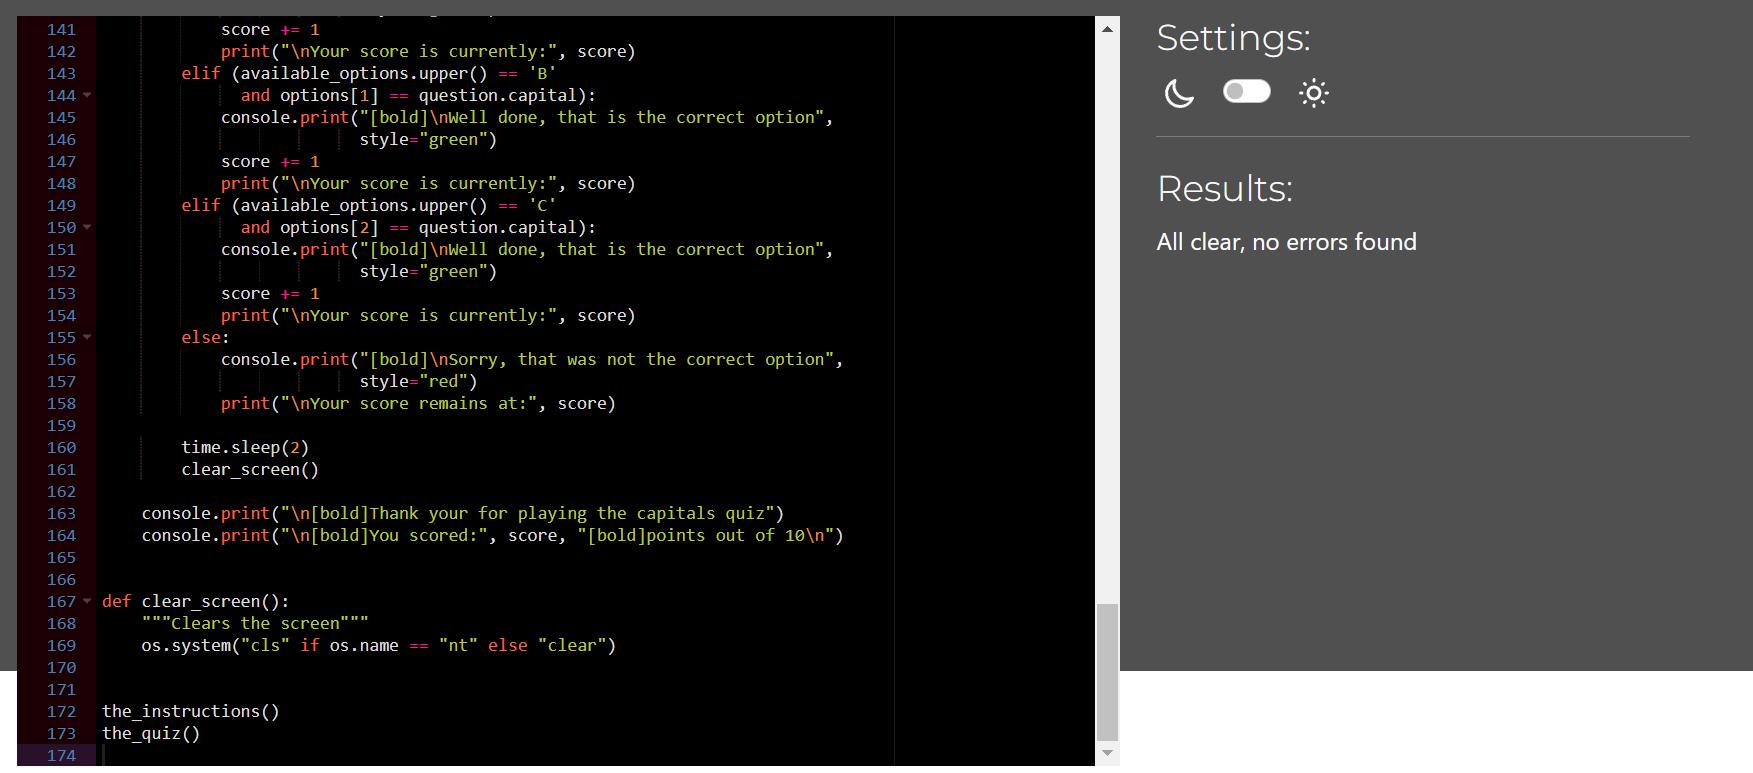
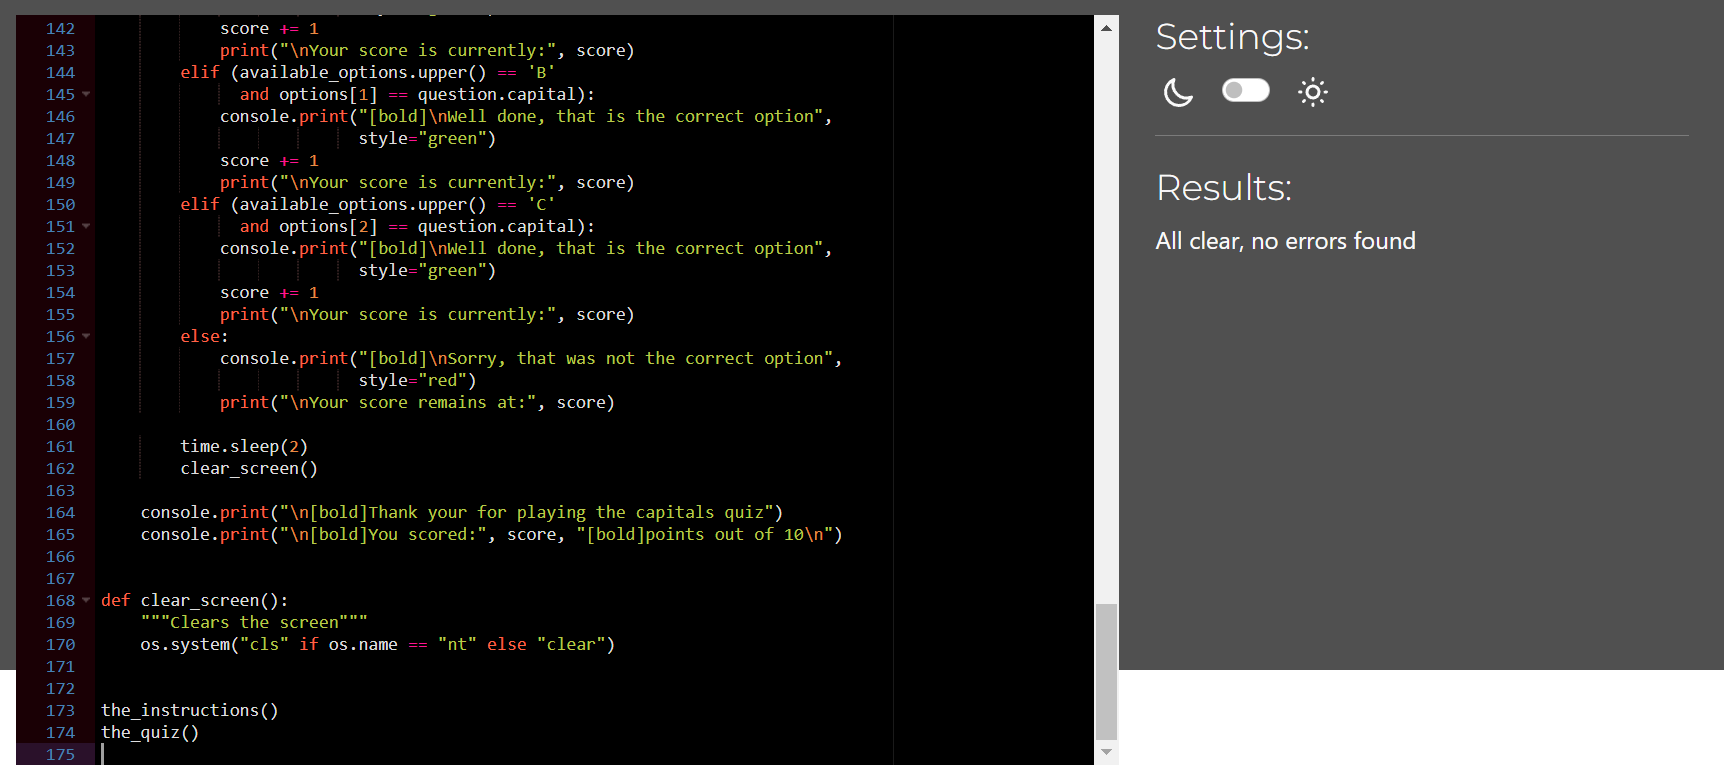
Add extra line of instruction

Changed region(s): [[0.0, 0.0, 1.0, 0.9935], [0.0922, 0.031, 0.4919, 0.5278], [0.0922, 0.5589, 0.1845, 0.621]]

diff --git a/run.py b/run.py
@@ -42,6 +42,7 @@ def the_instructions():
     print("listed as A, B and C\n")
     print("Please select either A, B or C\n")
     print("You shall be advised if that is the correct answer or not\n")
+    print("You shall be awarded 1 point for each correct answer\n")
     print("If you select anything other than A, B or C, you shall", end=" ")
     print("be asked to make a choice again until you select A, B or C\n")
     input("Press Enter to continue\n")
@@ -50,7 +51,8 @@ def the_instructions():
 
 def the_quiz():
     """
-    Data for the questions
+    Data for the questions generating the question,
+    inputting a selected answer and giving a score.
     """
     dictionary = [
         {

diff --git a/README.md b/README.md
@@ -1,23 +1,28 @@
 # Capitals Quiz 
-Capitals Quiz is a Python terminal quiz, which runs in the Code Institute mock terminal on Heroku. 
+Capitals Quiz is a Python terminal quiz, which runs in the Code Institute mock terminal on Heroku.
+
+It is a multiple choice game where the user has to decide between a choice of cities in a particular given country, which one the capital is. 
 
 [Here is the live version of the project](https://johns-capitals-quiz-91df1cc5b9af.herokuapp.com/)
 
 ![Website displayed on multiple screens](assets/imagesforreadme/screenshots.PNG)
 
 ## How to play 
-Users are asked what the capital is of 10 countries and are given a selection of 3 potential answers, listed as A, B and C. One of the answers shall be the capital and therefore the correct answer while the other two options shall be incorrect answers. The other two options however are both cities in that particular country. 
+The player is asked what the capital is of a total of 10 countries across the course of the game and are given a selection of 3 potential cities in that country. The 3 cities listed as A, B and C. One of the answers shall be the capital and therefore the correct answer while the other two options shall be incorrect answers. When the user answers correctly, they are awarded one point for each correct answer thus being able to obtain a maximum of 10 points. 
 
 Features: 
 
-Instructions on how to paly the game 
+Instructions on how to paly the game.
+
 ![Instructions](assets/imagesforreadme/instructions.PNG)
 
-The question is asked 
+The question is asked.
 
 ![The question](assets/imagesforreadme/question.PNG)
 
 If the player selects the correct option, the player is notified of this, is given a score of 1 for that question and then the next question is generated. 
+
+There is a 2 second pause, the previous question dissapears then the next question appears on the screen.
 
 ![Correct answer](assets/imagesforreadme/correctanswer.PNG)
 
@@ -25,25 +30,35 @@ If the player selects the incorrect option, the player is notified of this, is a
 
 ![Incorrect answer](assets/imagesforreadme/incorrectanswer.PNG)
 
-If the player selects anything other than a/A, b/B or c/C, the player is notified that what they have selected is not an option and is asked to select A, B or C again until they select a/A, b/B or c/C. 
+If the player selects anything other than A, B or C, the player is notified that what they have selected is not an option and is asked to select A, B or C again until they select A, B or C. The choice of A, B or C can be selected in either upper case or lower case.
 
 ![Not selected a/A, b/B nor c/C](assets/imagesforreadme/notanoption.PNG)
 
-Simiarly, if the player doesn't select anything and just presses Enter, the player is notified that what they have selected is not an option and is asked to select A, B or C again until they select a/A, b/B or c/C. 
+Similarly, if the player doesn't select anything and just presses Enter, the player is notified that what they have selected is not an option and is asked to select A, B or C again until they select A, B or C. 
 
 ![Only pressed Enter](assets/imagesforreadme/alsonotanoption.PNG)
 
-At the end of the quiz
-
-The player is given their final score out of 10
+At the end of the quiz, the player is given their final score out of 10
 
 ![At the end of the quiz](assets/imagesforreadme/endofquiz.PNG)
 
+If the player plays again, the three cities are not necessarily listed in the same order each time. 
+
+Below is an example where the correct answer is listed as A:
+
+![Example where the correct answer is listed as A](assets/imagesforreadme/random1.PNG)
+
+Below is an example where the correct answer is listed as C:
+
+![Example where the correct answer is listed as A](assets/imagesforreadme/random2.PNG)
+
 ## Testing 
-I have manually tested this project by doing the following: 
+The project has been manually tested by doing the following: 
 -   Passed the code through a PEP8 linter and confirmed there are no problems
 -   Given invalid inputs (including selecting nothing and just pressing return) 
--   Tested in my local terminal and the Code Institute Heroku terminal 
+-   Tested in the local terminal and the Code Institute Heroku terminal 
+
+Tests carried out:
 
 | Test  | Section  | Action  | Result  | Pass/Fail  |
 |---|---|---|---|---|
@@ -56,16 +71,11 @@ I have manually tested this project by doing the following:
 |  7 |  Question  | Entered a character other than a/A, b/B or c/C   | Advised that what was entered was not a valid option and was prompted to enter A, B or C  |  Pass |
 | 8  |  Question  | Entered multiple charachetrs including aa, bb, cc  | Advised that what was entered was not a valid option and was prompted to enter A, B or C  | Pass  |
 | 9  |  Question  | Pressed Enter without entering any characters  | Advised that what was entered was not a valid option and was prompted to enter A, B or C  | Pass  |
-|  10 | Question   | Repeated entering an invalid input multiple times  | Contnued to advise that what was entered was not a valid option and was prompted to enter A, B or C   |  Pass |
-
-## Validator 
--   PEP8 
-    -   No errors were returned from PEP8online.com
-
-![Screenshot of passing PEP8](assets/imagesforreadme/noerrorspep.PNG)
+| 10 | Question   | Repeated entering an invalid input multiple times  | Contnued to advise that what was entered was not a valid option and was prompted to enter A, B or C   |  Pass |
 
 ## Bugs 
-When testing in PEP8, initial bugs such as 'unexpected Whitespace' and 'no newline at end of file' were easily resolved, multiple lines of code brought up the error 'line too long (xx > 79 characters)'.
+When testing in PEP8, multiple lines of code brought up the error 'line too long (xx > 79 characters)'.
+
 Most of these lines going over column 80 contained a string of text.
 
 These lines were shortend to below column 80 by using two methods:
@@ -91,7 +101,11 @@ This is what the code looked like after the error has been fixed:
 
 ![Code after error fixed using variable and f-string method](assets/imagesforreadme/after2.PNG)
 
+## Validator 
+-   PEP8 
+    -   No errors were returned from PEP8online.com
 
+![Screenshot of passing PEP8](assets/imagesforreadme/noerrorspep.PNG)
 
 ## Deployment 
 This project was deployed using Code Institute’s mock terminal for Heroku
